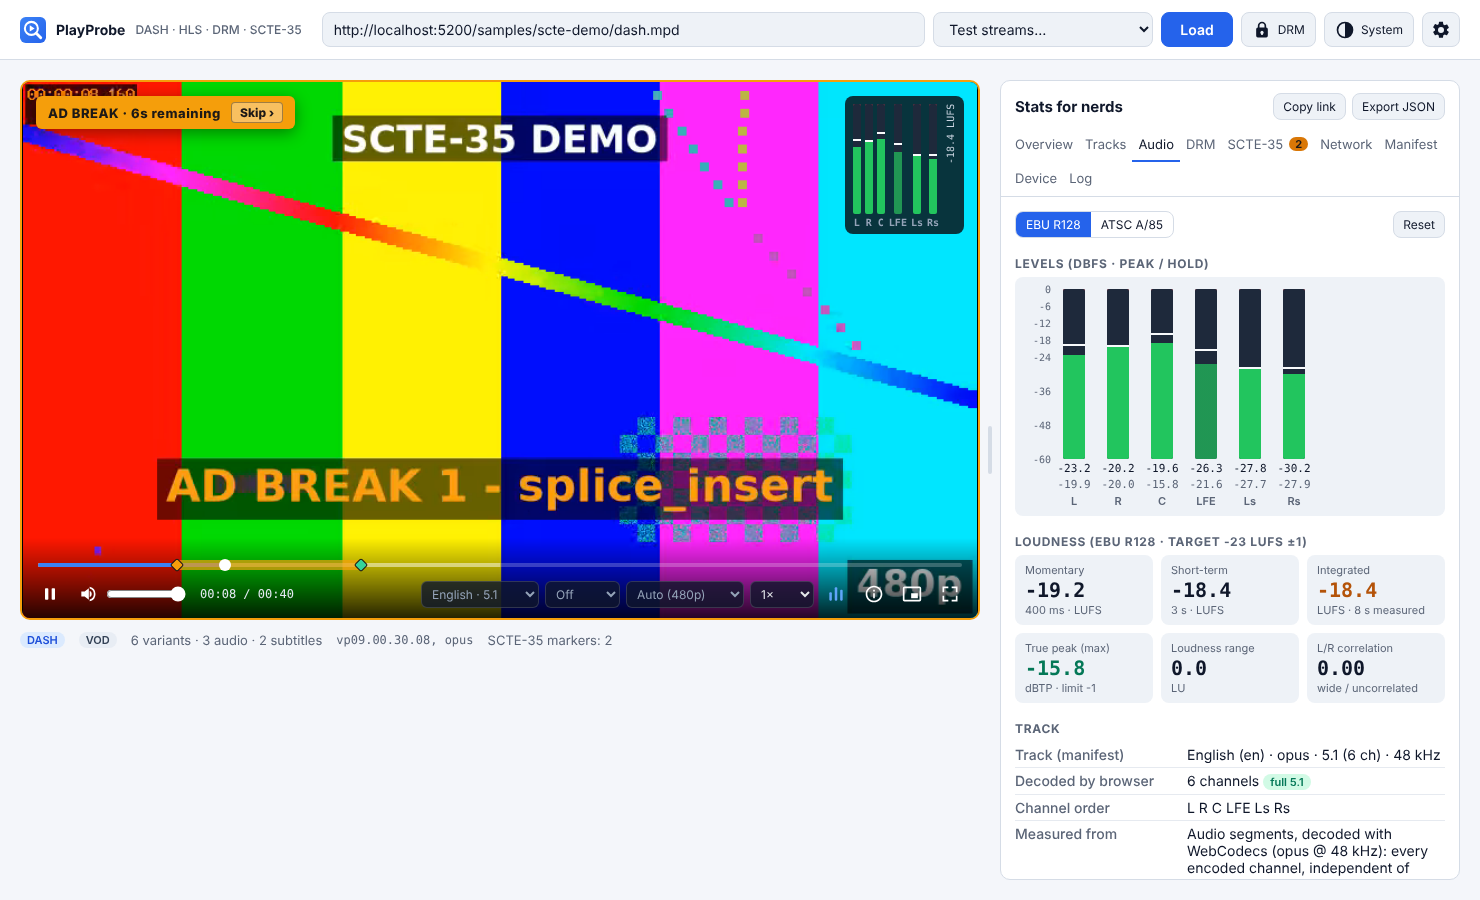
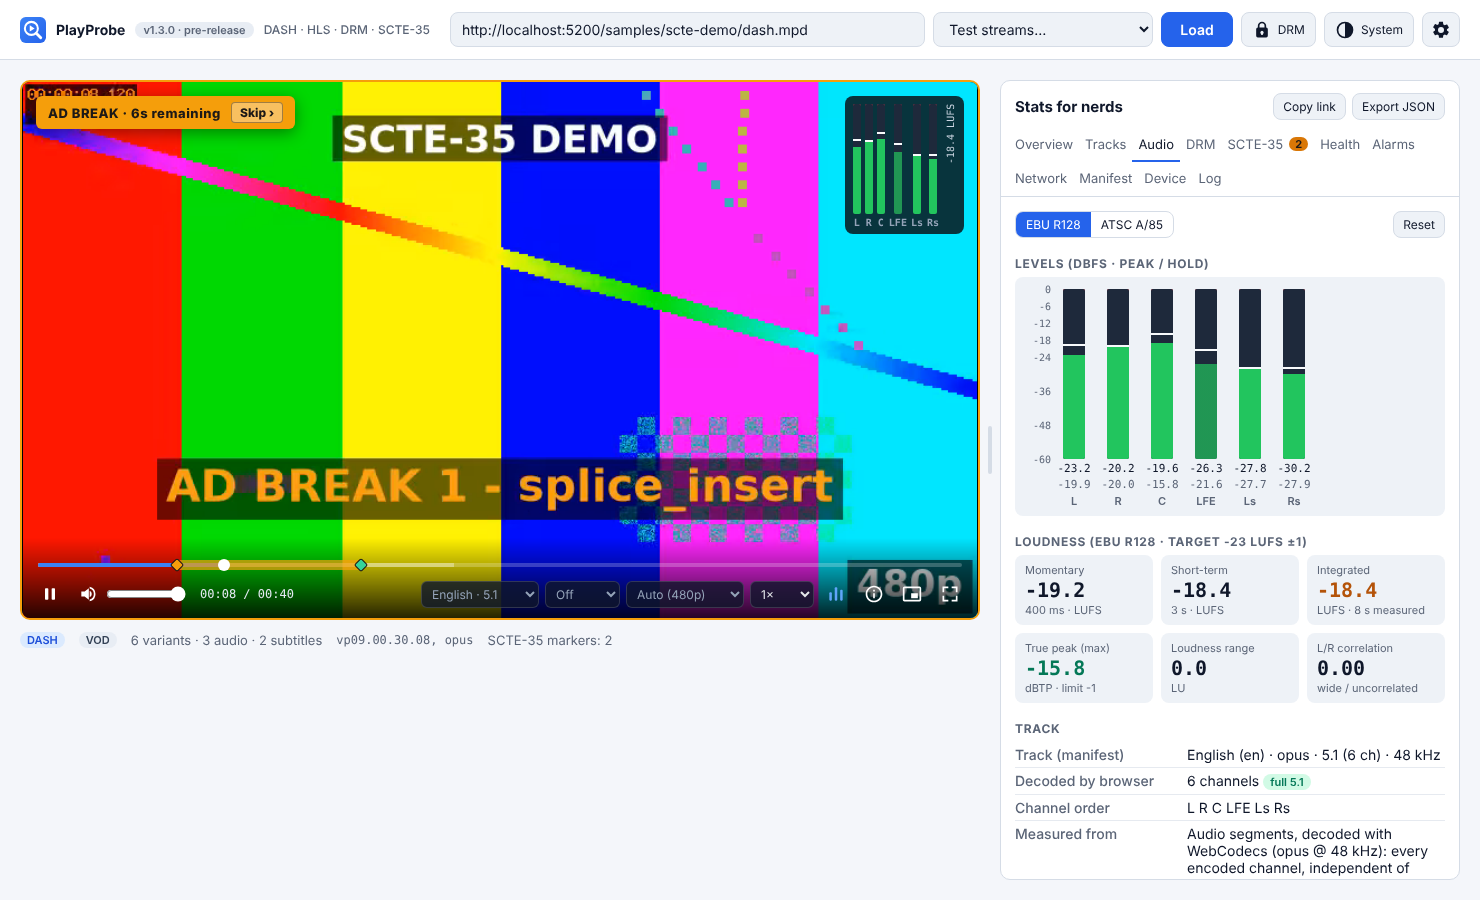
Health and alarms: end-to-end checks, docs, polish
- npm run test:e2e:health: plays the alarms demo at 4x and checks every
  alarm, the banner, timeline marks, CSV, the stream checks and the
  alignment failure; the clean sample must pass
- Alignment: rendition labels use the variant bandwidth; repeated issues
  are grouped
- Issue groups no longer render all text in red; wide tables scroll
- README: Stream health and rendition alignment, Picture and sound alarms,
  demo sample, architecture and tests; changelog notes for 1.3.0;
  refreshed screenshots

Claude-Session: https://claude.ai/code/session_01Mfx4jpQKbq4EYqM5U7Hj88

diff --git a/src/ui/health/alignment.ts b/src/ui/health/alignment.ts
@@ -3,6 +3,13 @@ import type { AlignCell } from '../../stream/alignment';
 import { badge, h } from '../dom';
 import { formatBytes, formatTime } from '../format';
 import { SEVERITY_BADGE, severitySummary } from '../scte/health';
+import type { StreamIssue } from '../../stream/monitor';
+
+const groupIssues = (issues: StreamIssue[]) => {
+  const m = new Map<string, StreamIssue[]>();
+  for (const i of issues) m.set(`${i.severity}|${i.title}`, [...(m.get(`${i.severity}|${i.title}`) ?? []), i]);
+  return m;
+};
 
 /**
  * Alignment sub-view: fetches the same segments of every video rendition at
@@ -82,9 +89,16 @@ export class AlignmentView {
     };
     this.body.replaceChildren(
       h('div', { class: 'toolbar' }, severitySummary(r.issues), h('span', { class: 'spacer' }), h('span', { class: 'muted small' }, `At ${formatTime(r.time)} · checked ${r.checkedAt.toISOString().slice(11, 19)}Z`)),
-      r.issues.length
-        ? h('ul', { class: 'issues' }, r.issues.map((i) => h('li', null, badge(...SEVERITY_BADGE[i.severity]), ' ', h('strong', null, i.title), ' — ', h('span', { class: 'muted small' }, `${i.where}: `), i.detail)))
-        : h('p', null, 'All renditions are aligned for the segments checked.'),
+      ...(r.issues.length
+        ? [...groupIssues(r.issues).values()].map((list) =>
+            h(
+              'details',
+              { class: `issue-group sev-${list[0].severity}`, open: list.length === 1 },
+              h('summary', null, badge(...SEVERITY_BADGE[list[0].severity]), ' ', h('strong', null, list[0].title), list.length > 1 ? h('span', { class: 'muted' }, ` ×${list.length}`) : ''),
+              h('ul', { class: 'issues' }, list.map((i) => h('li', null, h('span', { class: 'muted small' }, `${i.where}: `), i.detail))),
+            ),
+          )
+        : [h('p', null, 'All renditions are aligned for the segments checked.')]),
       h(
         'div',
         { class: 'align-wrap' },

diff --git a/src/ui/stats/health.ts b/src/ui/stats/health.ts
@@ -107,7 +107,7 @@ export class HealthTab {
             const [label, kind] = SEVERITY_BADGE[list[0].severity];
             const d = h(
               'details',
-              { class: `issue-group ${list[0].severity}`, open: this.open.has(id) || list.length === 1 },
+              { class: `issue-group sev-${list[0].severity}`, open: this.open.has(id) || list.length === 1 },
               h('summary', null, badge(label, kind), ' ', h('strong', null, list[0].title), list.length > 1 ? h('span', { class: 'muted' }, ` ×${list.length}`) : ''),
               h(
                 'ul',
@@ -163,7 +163,7 @@ export class HealthTab {
       ...(streams.length
         ? [
             h('h3', null, 'Renditions played'),
-            dataTable(
+            h('div', { class: 'table-scroll' }, dataTable(
               ['Rendition', 'Codec declared', 'Codec in media', 'Bitrate declared', 'Measured avg / peak', 'Keyframe start'],
               streams.map((s) => {
                 const segs = m.segments.filter((r) => r.streamId === s.id);
@@ -183,7 +183,7 @@ export class HealthTab {
                 ];
               }),
               'compact',
-            ),
+            )),
           ]
         : []),
       h(

diff --git a/src/player/controller.ts b/src/player/controller.ts
@@ -795,7 +795,8 @@ export class PlayerController extends EventTarget {
     const total = picked.length * (count + 1);
     const rows: AlignRow[] = [];
     for (const stream of picked) {
-      const row: AlignRow = { streamId: stream.id, label: `${stream.height ?? '?'}p ${Math.round((stream.bandwidth ?? 0) / 1000)} kbps`, cells: [] };
+      const bw = stream.bandwidth || Math.max(0, ...manifest.variants.filter((v) => v.video?.id === stream.id).map((v) => v.bandwidth));
+      const row: AlignRow = { streamId: stream.id, label: `${stream.height ?? '?'}p${bw ? ` ${Math.round(bw / 1000)} kbps` : ''}`, cells: [] };
       rows.push(row);
       try {
         await stream.createSegmentIndex();

diff --git a/src/ui/scte/health.ts b/src/ui/scte/health.ts
@@ -116,7 +116,7 @@ export class HealthView {
             const [label, kind] = SEVERITY_BADGE[list[0].severity];
             const details = h(
               'details',
-              { class: `issue-group ${list[0].severity}`, open: this.open.has(id) || list.length === 1 },
+              { class: `issue-group sev-${list[0].severity}`, open: this.open.has(id) || list.length === 1 },
               h('summary', null, badge(label, kind), ' ', h('strong', null, list[0].title), list.length > 1 ? h('span', { class: 'muted' }, ` ×${list.length}`) : ''),
               h(
                 'ul',

diff --git a/src/styles.css b/src/styles.css
@@ -1765,11 +1765,11 @@ pre .hl {
   border-left: 4px solid var(--info-text);
 }
 
-.issue-group.error {
+.issue-group.sev-error {
   border-left-color: var(--danger);
 }
 
-.issue-group.warn {
+.issue-group.sev-warn {
   border-left-color: var(--ad);
 }
 
@@ -2161,4 +2161,8 @@ ul.issues li {
 
 .alarm-banner[hidden] {
   display: none;
+}
+
+.table-scroll {
+  overflow-x: auto;
 }

diff --git a/README.md b/README.md
@@ -20,6 +20,8 @@
 - [Build and run in production](#build-and-run-in-production)
 - [Deploy to Cloudflare Workers](#deploy-to-cloudflare-workers)
 - [Screenshots](#screenshots)
+- [Stream health and rendition alignment](#stream-health-and-rendition-alignment)
+- [Picture and sound alarms](#picture-and-sound-alarms)
 - [SCTE-35 support](#scte-35-support)
   - [SCTE-35 tools](#scte-35-tools)
 - [Audio levels and loudness](#audio-levels-and-loudness)
@@ -53,6 +55,8 @@
 | **DRM** | **Widevine** (Chrome, Edge, Firefox, Android), **PlayReady** (Edge on Windows, Smart TVs, Xbox) and **FairPlay** (Safari). Works with any license server: license URL, request headers and, if needed, generic request/response formats, with no provider-specific settings. Saved profiles. License requests can go through the CORS proxy. |
 | **Stats: DRM** | DRM system and security level in use (Widevine L1/L3, PlayReady SL3000/SL2000), protection declared by the stream (systems, key IDs, decoded PSSH and PlayReady headers, HLS key tags, license URLs in the stream with a *Use this* button), live key status per key ID, and every license and certificate request with timing and the raw request and response. |
 | **Stats: Device** | Codec support (Media Source Extensions plus a 1080p smoothness check), DRM support and security levels (Widevine, PlayReady, FairPlay, ClearKey), HDCP version, HDR display and colour range. |
+| **Stats: Health** | **Stream checks** on the playlists, MPD and every downloaded segment: target duration, sequence numbering between refreshes, PROGRAM-DATE-TIME drift, stale live playlists, timeline gaps, segments without a keyframe at the start, duration and timestamp gaps, real vs declared codecs and bitrate. **Rendition alignment** compares the same segments of every video rendition. See [Stream health](#stream-health-and-rendition-alignment). |
+| **Stats: Alarms** | **Picture and sound alarms**: black, frozen picture, silence, a lost channel, loudness off target, true peaks and out-of-phase stereo, with an alarm banner on the video, a log, CSV export, sound or browser notification, and adjustable thresholds. See [Alarms](#picture-and-sound-alarms). |
 | **Stats: Log** | Loading steps, quality switches, track changes, stalls and errors. |
 | **Light / dark theme** | The header button cycles **System** (follows your OS setting), **Light** and **Dark**. The choice is remembered. The video area stays dark in both themes, as video players normally do. |
 | **Resizable layout** | Drag the handle between the player and the stats panel: drag left for a wider stats panel and a smaller player, right for the opposite. The width is remembered. Double-click the handle to reset; with the handle focused, arrow keys also resize it. |
@@ -73,7 +77,7 @@ npm install
 npm run dev
 ```
 
-Open **http://localhost:5173**, paste a DASH or HLS URL and press **Load**. You can also pick a stream from the **Test streams…** menu. The three **Bundled sample** entries work fully offline and contain SCTE-35 markers; the **SCTE-35 health demo** has deliberate signalling errors and an inserted ad pod.
+Open **http://localhost:5173**, paste a DASH or HLS URL and press **Load**. You can also pick a stream from the **Test streams…** menu. The four **Bundled sample** entries work fully offline and contain SCTE-35 markers; the **SCTE-35 health demo** has deliberate signalling errors and an inserted ad pod, and the **Stream health & alarms demo** trips every alarm and several stream checks.
 
 You can also link straight to a stream:
 
@@ -91,7 +95,9 @@ http://localhost:5173/?url=https://storage.googleapis.com/shaka-demo-assets/ange
 | `npm test` | Runs the unit tests (Vitest). |
 | `npm run typecheck` | Checks TypeScript types only. |
 | `npm run sample` | Regenerates the bundled SCTE-35 sample (needs `ffmpeg`). |
+| `npm run sample:alarms` | Regenerates the stream health & alarms demo (needs `ffmpeg`). |
 | `npm run sample:issues` | Regenerates the SCTE-35 health demo from the bundled sample (no `ffmpeg` needed). |
+| `npm run test:e2e:health` | Checks stream health, rendition alignment and the alarms end to end in headless Chromium. Add `-- --shots` to refresh their screenshots. |
 | `npm run test:e2e:scte` | Checks the SCTE-35 tools end to end in headless Chromium on the bundled samples. Add `-- --shots` to refresh the SCTE screenshots. |
 | `npm run test:e2e:drm` | Runs the DRM pipeline end to end in headless Chromium with ClearKey and a local test license server. Add `-- --shots` to refresh the DRM screenshots. |
 | `npm run deploy` | Builds and deploys to Cloudflare Workers (after `npx wrangler login`). |
@@ -222,6 +228,15 @@ To try the Worker locally with the same runtime Cloudflare uses: `npm run build 
 **SCTE-35 tab during an ad break (DASH sample)**: ad-break banner on the video, markers and break regions on the seek bar, the marker list, and the decoded detail of an in-band `time_signal`.
 ![SCTE-35](docs/screenshots/scte-dash.png)
 
+**Health: stream checks (alarms demo sample)**: segments longer than the target duration, a bitrate above the declared BANDWIDTH and a wrong codec string, with the playlists and renditions read.
+![Stream health](docs/screenshots/health-stream.png)
+
+**Health: rendition alignment**: 180p has 3 s segments and 360p 2 s, so boundaries and timestamps don't line up.
+![Rendition alignment](docs/screenshots/health-alignment.png)
+
+**Alarms**: every alarm the demo stream trips, with durations and details.
+![Alarms](docs/screenshots/alarms.png)
+
 **SCTE-35 Health (health demo sample)**: the problems planted in the demo stream, grouped by check, each linking to its marker.
 ![SCTE-35 health](docs/screenshots/scte-health.png)
 
@@ -273,6 +288,50 @@ To try the Worker locally with the same runtime Cloudflare uses: `npm run build 
 **Phone layout**: controls sit under the video; the stats panel stacks below.
 
 <img src="docs/screenshots/mobile.png" alt="Phone layout" width="390">
+
+---
+
+## Stream health and rendition alignment
+
+The **Health** tab checks the stream itself while it plays. PlayProbe reads every playlist or MPD refresh and every segment the player downloads (fMP4/CMAF and MPEG-2 TS), without decoding: the real codec string from the init segment, the decode time, duration and keyframe of each segment.
+
+| Check | Severity |
+| --- | --- |
+| **Segment longer than `EXT-X-TARGETDURATION`** (rounded), or than the MPD's `@maxSegmentDuration` | error; warning |
+| **`EXT-X-TARGETDURATION` changed**, **media sequence went backwards**, a **segment changed its sequence number**, or the **discontinuity sequence** doesn't match the discontinuities that left the window | error |
+| **Segments skipped between refreshes** (the playlist moved past segments this player never saw) | warning |
+| **PROGRAM-DATE-TIME** drifting from the segment durations, or changing between refreshes | warning |
+| **Live playlist / MPD not updating** for 3× the target / segment duration (error at 6×) | warning |
+| **Gap or overlap** in a SegmentTimeline or between periods | warning |
+| **Segment does not start with a keyframe** | error |
+| Segment **duration** in the media differs from the manifest; **gap or overlap** between the media timestamps of neighbouring segments | warning |
+| **Codec string** in the manifest differs from the init segment (e.g. wrong profile or level), or isn't declared | warning |
+| **Bitrate** above the declared HLS `BANDWIDTH` (peak, video alone) or DASH `@bandwidth` (average) | warning |
+
+The tab also lists the media playlists (target duration, window, refreshes, last change), the MPD timelines, and each rendition played with declared vs real codec, declared vs measured bitrate and how many segments started with a keyframe.
+
+**Rendition alignment** fetches the same segments (1, 3 or 5) of every video rendition (up to 10) from the playhead, through the player's own segment index, so HLS and DASH, templates and byte ranges all work. It compares segment boundaries in the manifest, timestamps and durations in the media, and keyframes, and shows them side by side. Seamless quality switching needs all of them to match. It fetches extra data, so it runs only when you press the button.
+
+---
+
+## Picture and sound alarms
+
+The **Alarms** tab watches what the viewer gets, for leaving a channel running in an operations room. An alarm raises when its condition has lasted for the hold time (measured in content time, so it means the same at any playback speed) and clears after the condition has been gone for a second. Active alarms show as a red banner on the video and on the SCTE-35 timeline.
+
+| Alarm | Default threshold | Hold |
+| --- | --- | --- |
+| **Black picture** | average luma below 6 % | 2 s |
+| **Frozen picture** | average change between frames below 0.2 % while the playhead moves | 5 s |
+| **Silence** | every channel below −60 dBFS | 5 s |
+| **Channel lost** | one channel (not LFE) below −60 dBFS while the others carry audio | 10 s |
+| **Loudness off target** | short-term loudness more than 6 LU from the target (EBU R128 −23 LUFS or ATSC A/85 −24 LKFS, from the Audio tab) | 20 s |
+| **True peak over limit** | above −1 dBTP (EBU) or −2 dBTP (ATSC) | instant |
+| **Out of phase** | L/R correlation below −0.3 | 5 s |
+
+Thresholds, hold times and which alarms are on are in **Alerts and thresholds**, with a sound and/or a browser notification when an alarm raises. The log keeps every alarm with start, duration and detail; **Export CSV** downloads it.
+
+- **Picture** alarms sample the video four times a second into a small canvas. Browsers don't let pages read DRM-protected video (or cross-origin video played without CORS), so picture alarms are unavailable there and the tab says why.
+- **Sound** alarms use the same measurements as the audio meters.
 
 ---
 
@@ -491,6 +550,11 @@ flowchart LR
 | `src/scte/timeline.ts`, `structure.ts`, `navigation.ts` | Lanes and spans for the timeline, nesting for the structure view, and where to seek for marker and break navigation. |
 | `src/scte/ssai.ts` | Content runs from HLS playlists and DASH periods, ad pods and interstitials, and their match with breaks. |
 | `src/scte/encode.ts`, `csv.ts` | SCTE-35 encoder (checked against the specification's sample) with HLS tag and DASH EventStream output; CSV export and hourly counts. |
+| `src/media/segment.ts` | Reads segments without decoding: fMP4 init (tracks, timescales, codec strings from avcC / hvcC / vpcC / av1C / esds), fMP4 fragments (decode time, duration, sync sample) and MPEG-2 TS (PTS, IDR / IRAP). |
+| `src/stream/monitor.ts`, `health.ts`, `mpd.ts` | Records playlist and MPD refreshes and downloaded segments; the stream health checks; SegmentTimeline parsing. |
+| `src/stream/alignment.ts` | Compares the same segments across renditions. |
+| `src/alarms/monitor.ts`, `picture.ts` | Alarm conditions with hold and release in content time; the picture sampler. |
+| `src/ui/stats/health.ts`, `src/ui/health/*`, `src/ui/stats/alarms.ts` | The Health tab (stream checks and alignment) and the Alarms tab. |
 | `src/ui/scte/*` | The SCTE-35 sub-views (health, timeline, structure, ad insertion, monitor and alerts, builder) and the navigator shared by the keys, buttons and banner. |
 | `src/ui/controls.ts`, `seekbar.ts` | Control bar, track selectors, keyboard shortcuts, and the seek bar with buffered regions and SCTE markers and breaks. |
 | `src/ui/stats/*` | One file per tab. Only the visible tab updates (at most once per animation frame). |
@@ -556,6 +620,9 @@ sequenceDiagram
 │   ├── scte/                  SCTE-35 decoder/encoder, HLS cue parser, marker monitor, health checks, timing, ad insertion
 │   ├── audio/                 Audio meters: DSP, loudness, fMP4 reader, WebCodecs + Web Audio sources
 │   ├── drm/                   DRM settings, license request/response formats, protection parsing, monitor
+│   ├── media/                 Segment reader (fMP4 init and fragments, MPEG-2 TS)
+│   ├── stream/                Stream health checks, MPD timelines, rendition alignment
+│   ├── alarms/                Picture and sound alarms, picture sampler
 │   ├── ui/                    Controls, seek bar, chart, helpers
 │   │   ├── scte/              SCTE-35 views: health, timeline, structure, ad insertion, monitor, builder
 │   │   └── stats/             Overview, Tracks, SCTE-35, Network, Manifest, Device, Log tabs
@@ -565,10 +632,13 @@ sequenceDiagram
 ├── public/logo.svg, favicon.* App logo, favicons and home-screen icon
 ├── public/samples/scte-demo/  Bundled offline DASH + HLS sample with SCTE-35
 ├── public/samples/scte-issues/ SCTE-35 health demo (HLS with an inserted pod and signalling errors)
+├── public/samples/alarms-demo/ Stream health & alarms demo (picture, sound and stream problems)
 ├── scripts/
 │   ├── make-sample.mjs        Builds the sample with ffmpeg + adds SCTE-35 markers
 │   ├── make-issues-sample.mjs Builds the SCTE-35 health demo from the sample
 │   ├── e2e-scte.mjs           End-to-end checks of the SCTE-35 tools
+│   ├── make-alarms-sample.mjs Builds the stream health & alarms demo with ffmpeg
+│   ├── e2e-health.mjs         End-to-end checks of stream health, alignment and alarms
 │   ├── screenshots.mjs        Regenerates docs/screenshots with Playwright
 │   └── lib/scte35-encode.mjs  Minimal SCTE-35 encoder (sample + tests)
 ├── test/                      Vitest unit tests
@@ -597,6 +667,10 @@ The unit tests cover:
 - **DRM**: request formats (raw, base64, JSON template with escaping, form), response formats (auto-detect of binary, base64, `<ckc>`, JSON fields; ClearKey passed through), FairPlay content ID from `skd://` (UTF-8 and UTF-16), Widevine and ClearKey PSSH decoding from real streams, PlayReady headers v4.0 to v4.3 (GUID key IDs, `LA_URL`, entities) from PSSH, `mspr:pro` and HLS data URIs, SOAP licenses passed through, MPD and HLS key tags, init-segment boxes, error messages. The Worker tests also cover license POST forwarding and the size limit. The end-to-end DRM run is `npm run test:e2e:drm` (see [Testing DRM](#testing-drm)).
 - **Request routing**: manifests proxied, segments sent directly, relative segment URLs taken back out of the proxy, own-site files never proxied.
 
+- **Stream health, alignment and alarms**: the segment reader on the bundled sample and on synthetic TS (H.264 IDR / non-IDR), codec comparison, every playlist refresh check (sequence numbers, discontinuity sequence, target duration, PDT drift and changes, stale, ended), MPD timelines (repeats, gaps, long segments, stale), downloaded segment checks (codecs, duration, bitrate, timestamp gaps), rendition comparison (boundaries, timestamps, durations, keyframes, missing segments), and every alarm (hold, release, seeks, content-time at 4×, LFE ignored, disabled alarms).
+
+`npm run test:e2e:health` plays the stream health & alarms demo in headless Chromium at 4× and checks that every alarm raises, the banner, the timeline marks and the CSV; the stream checks (target duration, codec, bandwidth after switching to 360p) and the alignment failure; and that the clean sample has no stream problems, aligned renditions and no alarms.
+
 `npm run test:e2e:scte` plays the two bundled samples in headless Chromium and checks that every problem planted in the health demo is reported, that the clean sample passes, the ad pod and its fill, the timeline, structure, navigation keys, CSV download, the marker missing from the 240p playlist (after switching to it) and the builder.
 
 For end-to-end checks, `npm run screenshots` drives the real app in Chromium against both bundled samples. It's a quick smoke test for DASH, HLS, SCTE detection and the UI.
@@ -624,6 +698,13 @@ VP9/Opus is used so the sample also plays in open-source Chromium, which is used
 - **6 s:** an 8 s break (`DATERANGE` + `CUE-OUT`) filled by a **6 s inserted pod** (segments from another folder, between discontinuities): underfill. One `CUE-OUT-CONT` states 7 s elapsed when 4 s have.
 - **16 s:** a Provider Placement Opportunity (2 s) with an advertisement inside it, whose end signal comes after 4 s. It is **missing from the 240p playlist** (switch the quality to 240p to see that check).
 - **32 s:** a `CUE-OUT` with no duration and no IN, carrying an `OATCLS` message with a **broken CRC**.
+
+### Stream health & alarms demo
+
+`public/samples/alarms-demo/` (pick **Stream health & alarms demo** from **Test streams…**) is a 76 s HLS stream made with ffmpeg by `npm run sample:alarms`:
+
+- **6–10 s** black picture, **10–18 s** frozen picture, **12–20 s** silence, **22–36 s** right channel lost, **38–62 s** too loud with true peaks, **64–72 s** out of phase.
+- The **180p** rendition has a keyframe every 3 s (3 s segments against 2 s for 360p, so rendition alignment fails) and claims a 2 s target duration. The master playlist declares a wrong codec level and a too-low `BANDWIDTH` for **360p** (switch to 360p to see those).
 
 ---
 

diff --git a/CHANGELOG.md b/CHANGELOG.md
@@ -6,7 +6,7 @@ The format follows [Keep a Changelog](https://keepachangelog.com/en/1.1.0/), and
 
 ## [Unreleased]
 
-Planned as 1.1.0 (PlayReady) and 1.2.0 (SCTE-35 tools).
+Planned as 1.1.0 (PlayReady), 1.2.0 (SCTE-35 tools) and 1.3.0 (stream health, rendition alignment, picture and sound alarms).
 
 ### Added
 
@@ -23,6 +23,10 @@ Planned as 1.1.0 (PlayReady) and 1.2.0 (SCTE-35 tools).
 - **SCTE-35 message builder** with presets, output as base64, hex, HLS tags and DASH EventStream.
 - Marker and break navigation: `n` / `p` / `b` / `s` keys, buttons, and a Skip button on the ad-break banner.
 - **SCTE-35 health demo** sample stream with an inserted ad pod and deliberate signalling errors; `npm run test:e2e:scte`.
+- **Health tab: stream checks** on playlists, MPDs and every downloaded segment (fMP4/CMAF and MPEG-2 TS): target duration, media and discontinuity sequence numbering between refreshes, PROGRAM-DATE-TIME drift, stale live playlists and MPDs, SegmentTimeline and period gaps, segments not starting with a keyframe, duration and timestamp gaps, declared vs real codecs and bitrate.
+- **Rendition alignment**: fetches the same segments of every video rendition and compares boundaries, media timestamps, durations and keyframes side by side.
+- **Alarms tab**: black and frozen picture, silence, a lost channel, loudness off target, true peaks and out-of-phase stereo, with hold times in content time, an alarm banner on the video, timeline marks, a log with CSV export, sound or browser notification, and adjustable thresholds.
+- **Stream health & alarms demo** sample (`npm run sample:alarms`) and `npm run test:e2e:health`.
 
 ### Changed
 
